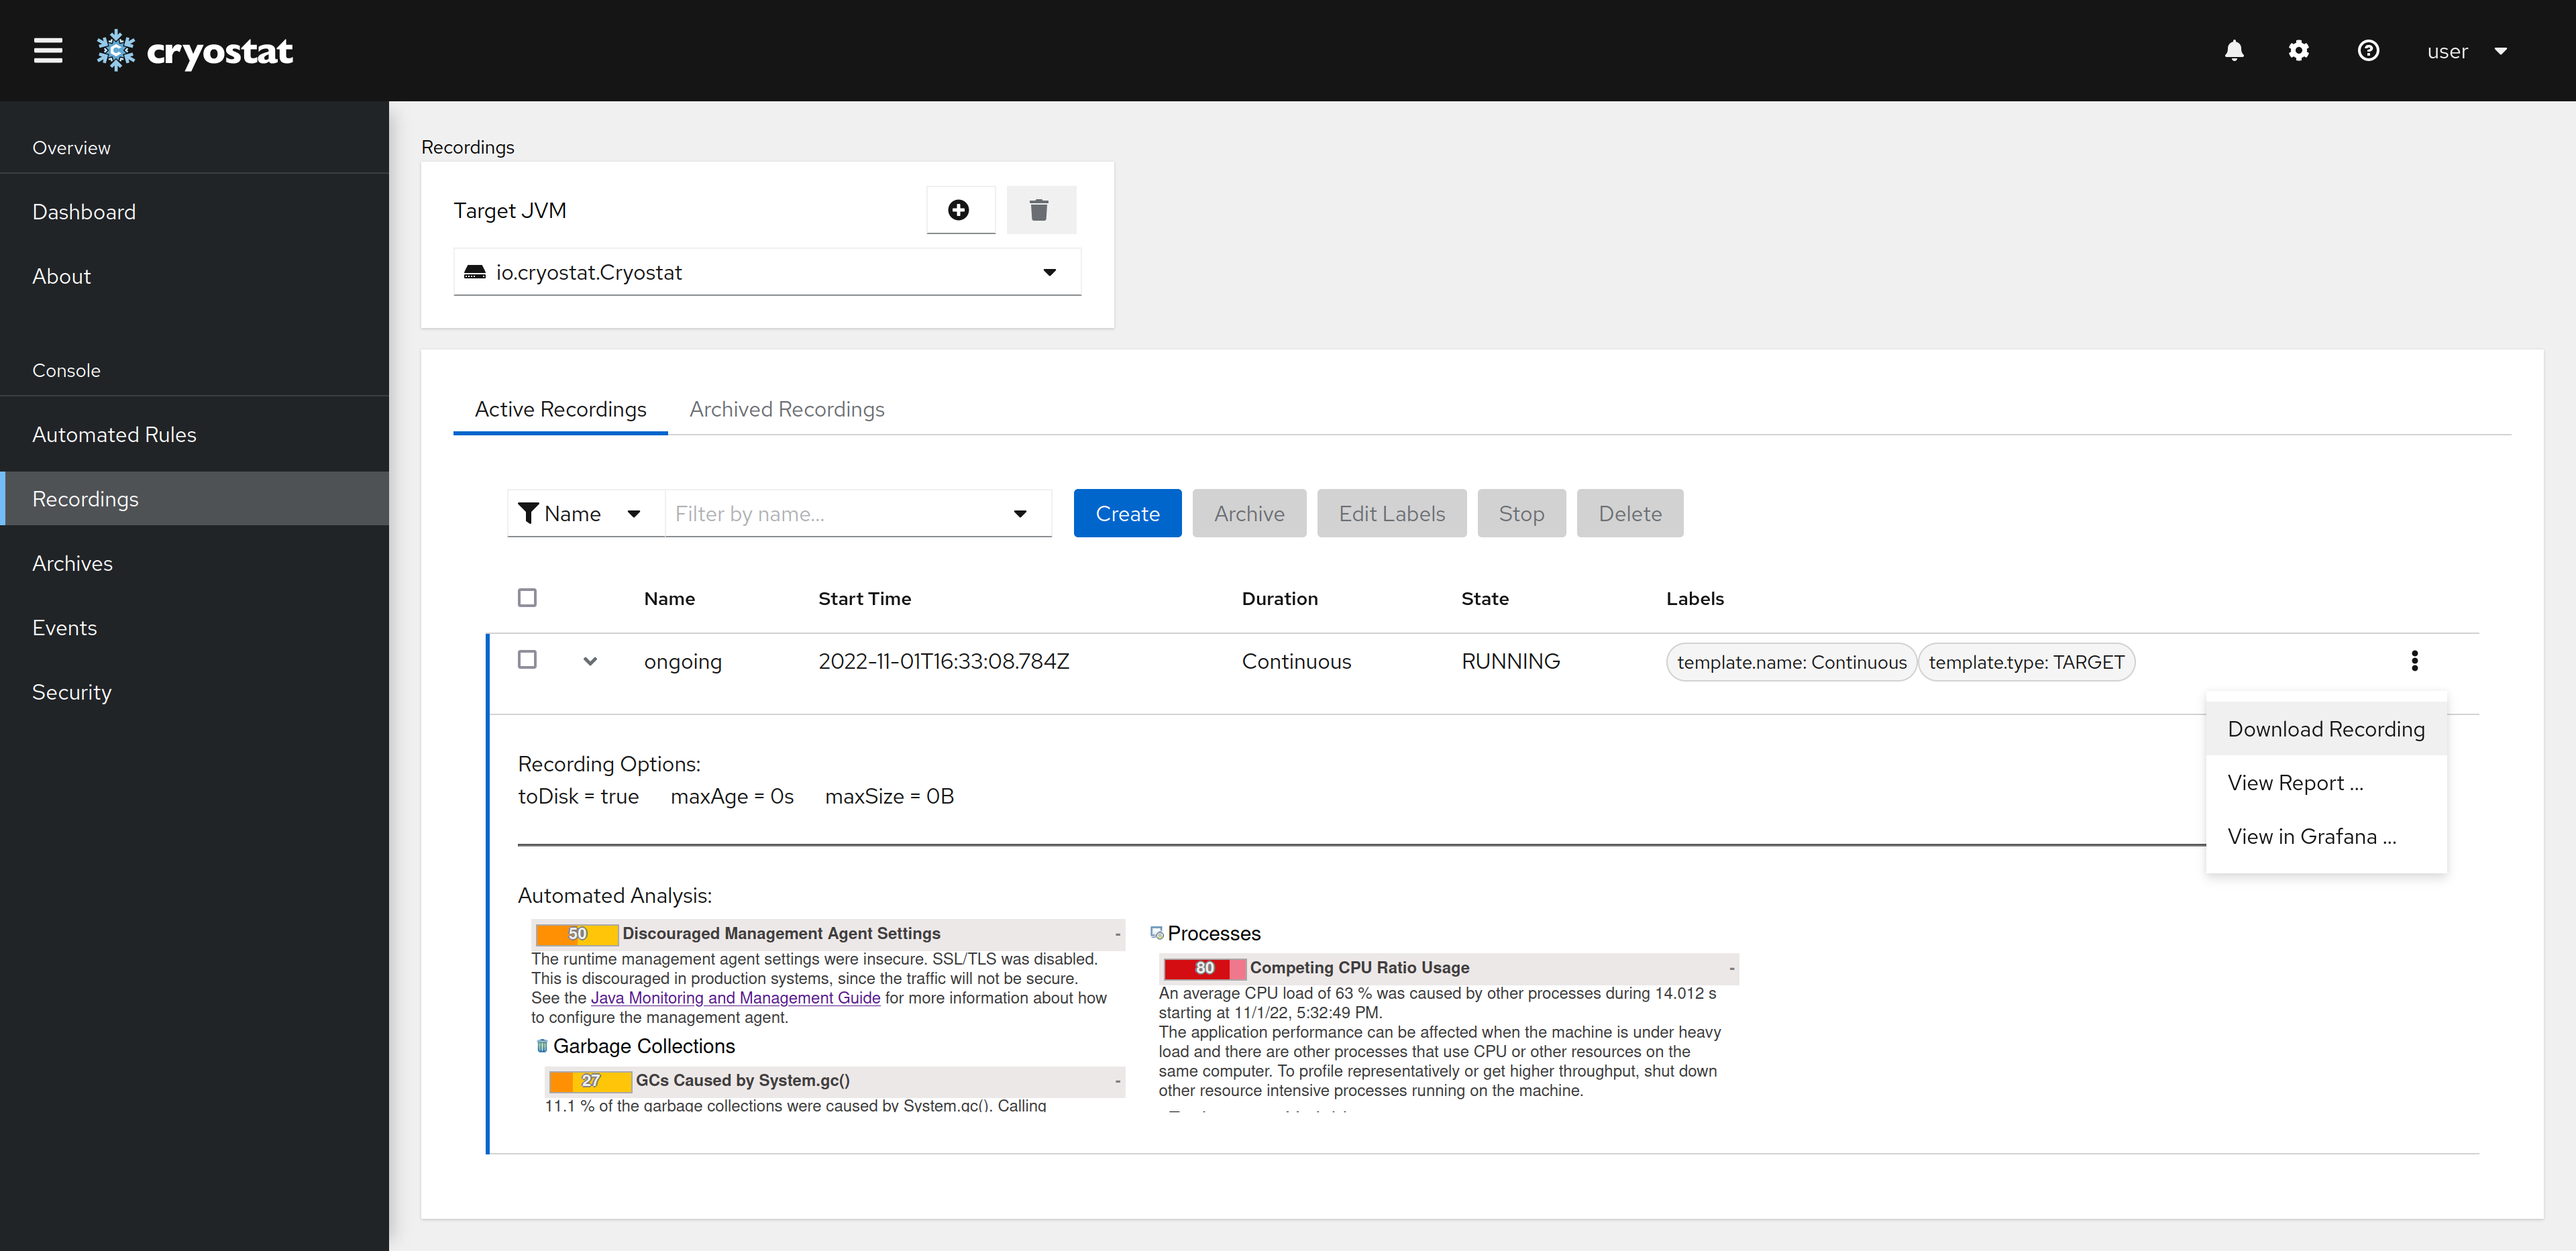
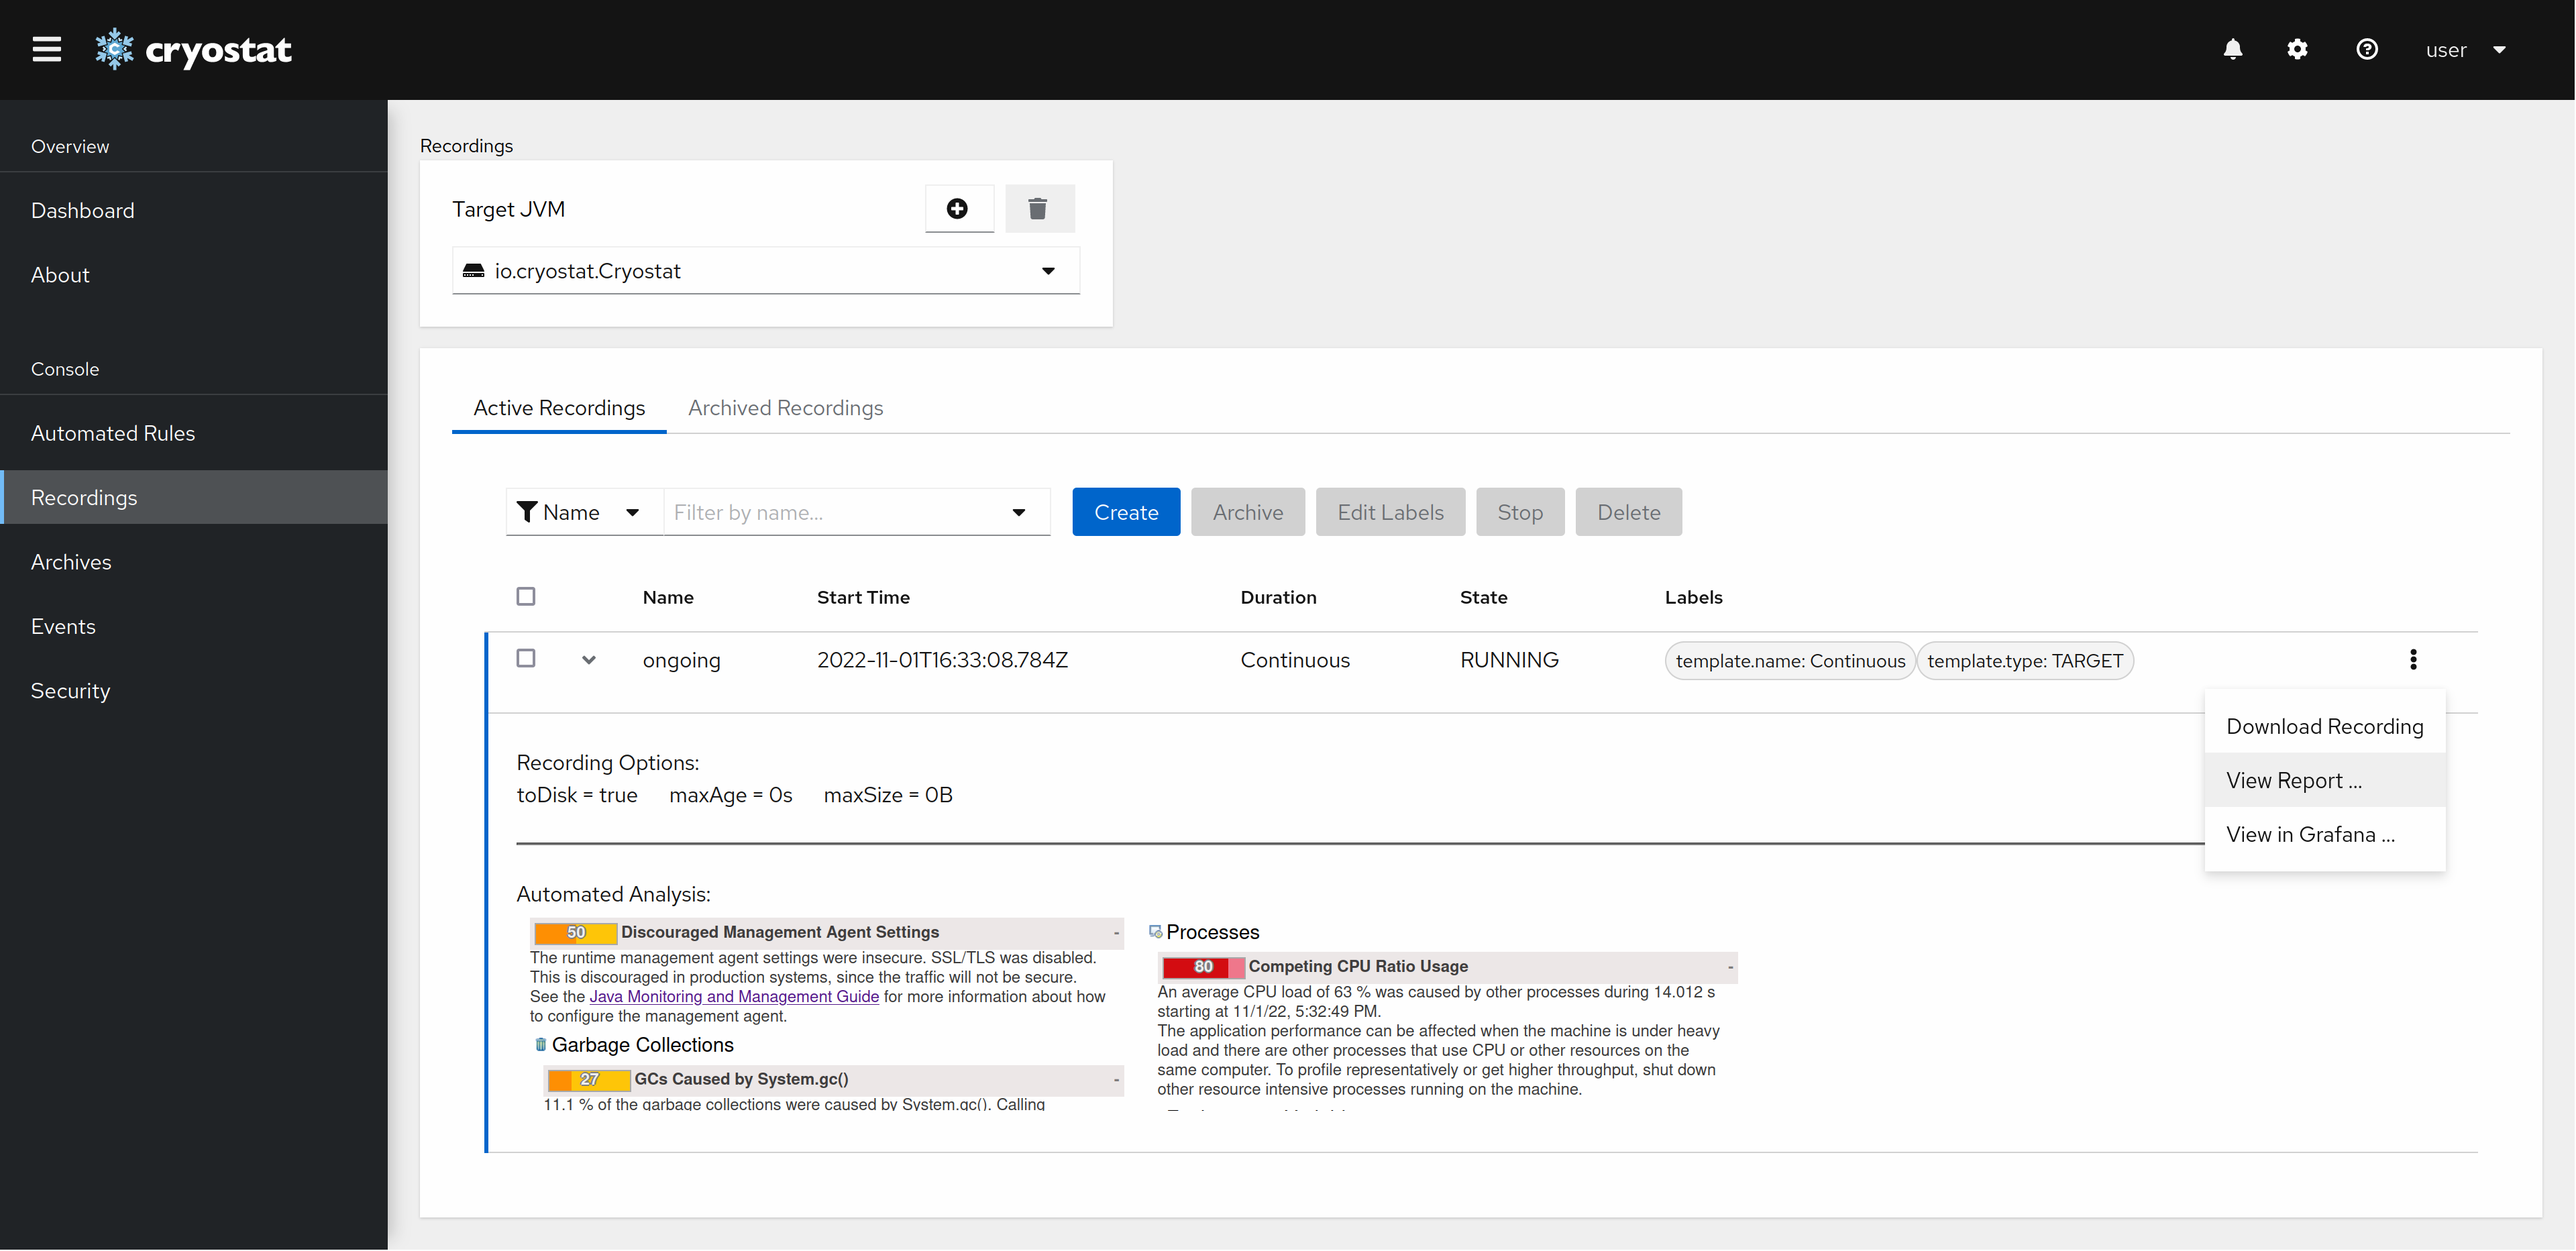
updated old info

diff --git a/guides/_subsections/automated-analysis.md b/guides/_subsections/automated-analysis.md
@@ -50,25 +50,39 @@ for offline use.
     %}
   </li>
   <li>
+    {% capture download-report-text %}
+    <p>
+      <figure>
+        <a href="{{ site.url }}/images/2.2.0/automated-analysis-4.png" target="_blank">
+          <img src="{{ site.url }}/images/2.2.0/automated-analysis-4.png">
+        </a>
+        <figcaption>
+          View the report on its own without connecting to Cryostat.
+          Check <i>Show OK Results</i> to include results where the rules
+          engine found no issues in the recording.
+        </figcaption>
+      </figure>
+      <figure>
+        <a href="{{ site.url }}/images/2.2.0/automated-analysis-5.png" target="_blank">
+          <img src="{{ site.url }}/images/2.2.0/automated-analysis-5.png">
+        </a>
+        <figcaption>
+          To download the HTML <i>Automated Analysis</i> report to local disk, right click 
+          the page and select <i>Save Page As...</i>. Alternatively, press <kbd>Ctrl</kbd>
+          +<kbd>S</kbd> on Windows/Linux, or <kbd>⌘</kbd>+<kbd>S</kbd> on macOS.
+        </figcaption>
+      </figure>
+    </p>
+    {% endcapture %}
     {% include howto_step.html
-      summary="Select <i>Download Report</i>"
+      summary="Download the report"
       image-name="2.2.0/automated-analysis-3.png"
       caption="
         To download the automated analysis report for offline viewing,
-        select <i>Download Report</i> from the recording's overflow
+        select <i>View Report ...</i> from the recording's overflow
         menu.
       "
-    %}
-  </li>
-  <li>
-    {% include howto_step.html
-      summary="Open the downloaded report in your browser"
-      image-name="2.2.0/automated-analysis-4.png"
-      caption="
-        View the report on its own without connecting to Cryostat.
-        Check <i>Show OK Results</i> to include results where the rules
-        engine found no issues in the recording.
-      "
+      text=download-report-text
     %}
   </li>
 </ol>

diff --git a/guides/_subsections/archive-a-recording.md b/guides/_subsections/archive-a-recording.md
@@ -8,7 +8,7 @@ Archived recordings are created by performing archival upon active recordings.
 When this is requested, Cryostat connects to the target application and copies
 the Flight Recorder data from the selected active recording into an archived
 recording file in storage. The active source recording may be continuous or
-fixed-duration, using any event template or event specifier string, may be in
+fixed-duration, may be using any event template, may be in
 any state (`RUNNING`, `STOPPED`, etc.), and may even be a snapshot.
 
 <ol>
@@ -42,12 +42,13 @@ any state (`RUNNING`, `STOPPED`, etc.), and may even be a snapshot.
       image-name="2.2.0/archive-a-recording-2.png"
       caption="
         Once the recording has been archived, a new entry will appear in the
-        <i>Archived Recordings</i> table. All recordings in the archives are
-        displayed here, regardless of the selected target application. The
-        name of the archived recording reflects the address of the target
-        application and the original name of the active recording that it was
-        retrieved from, and includes a timestamp indicating when the archived
-        recording was created.
+        target JVM's <i>Archived Recordings</i> table. All recordings that were
+        saved from the current target will be listed here in their own table.
+        Switching to a different target from the dropdown will list only the 
+        recordings archived from that source target. The name of the archived 
+        recording reflects the address of the target application, the original 
+        name of the active recording that it was retrieved from, and includes a 
+        timestamp indicating when the archived recording was created.
       "
     %}
   </li>

diff --git a/guides/_subsections/view-in-grafana.md b/guides/_subsections/view-in-grafana.md
@@ -68,16 +68,6 @@ kubectl get secret ${CRYOSTAT_NAME}-grafana-basic -o jsonpath='{$.data.GF_SECURI
   </li>
   <li>
     {% include howto_step.html
-      summary="Select Cryostat's dashboard"
-      image-name="2.2.0/view-in-grafana-3.png"
-      caption="
-        Navigate to the Dashboards tab in Grafana and select the dashboard
-        named <i>Dashboard</i>.
-      "
-    %}
-  </li>
-  <li>
-    {% include howto_step.html
       summary="View and interact with data from your recording"
       image-name="2.2.0/view-in-grafana-4.png"
       caption="

diff --git a/guides/_subsections/download-an-automated-rule.md b/guides/_subsections/download-an-automated-rule.md
@@ -1,6 +1,6 @@
 ## [Download an Automated Rule](#download-an-automated-rule)
 
-Automated Rules can easily be downloaded for viewing and editting.
+Automated Rules can easily be downloaded for viewing and editing.
 
 
 <ol>
